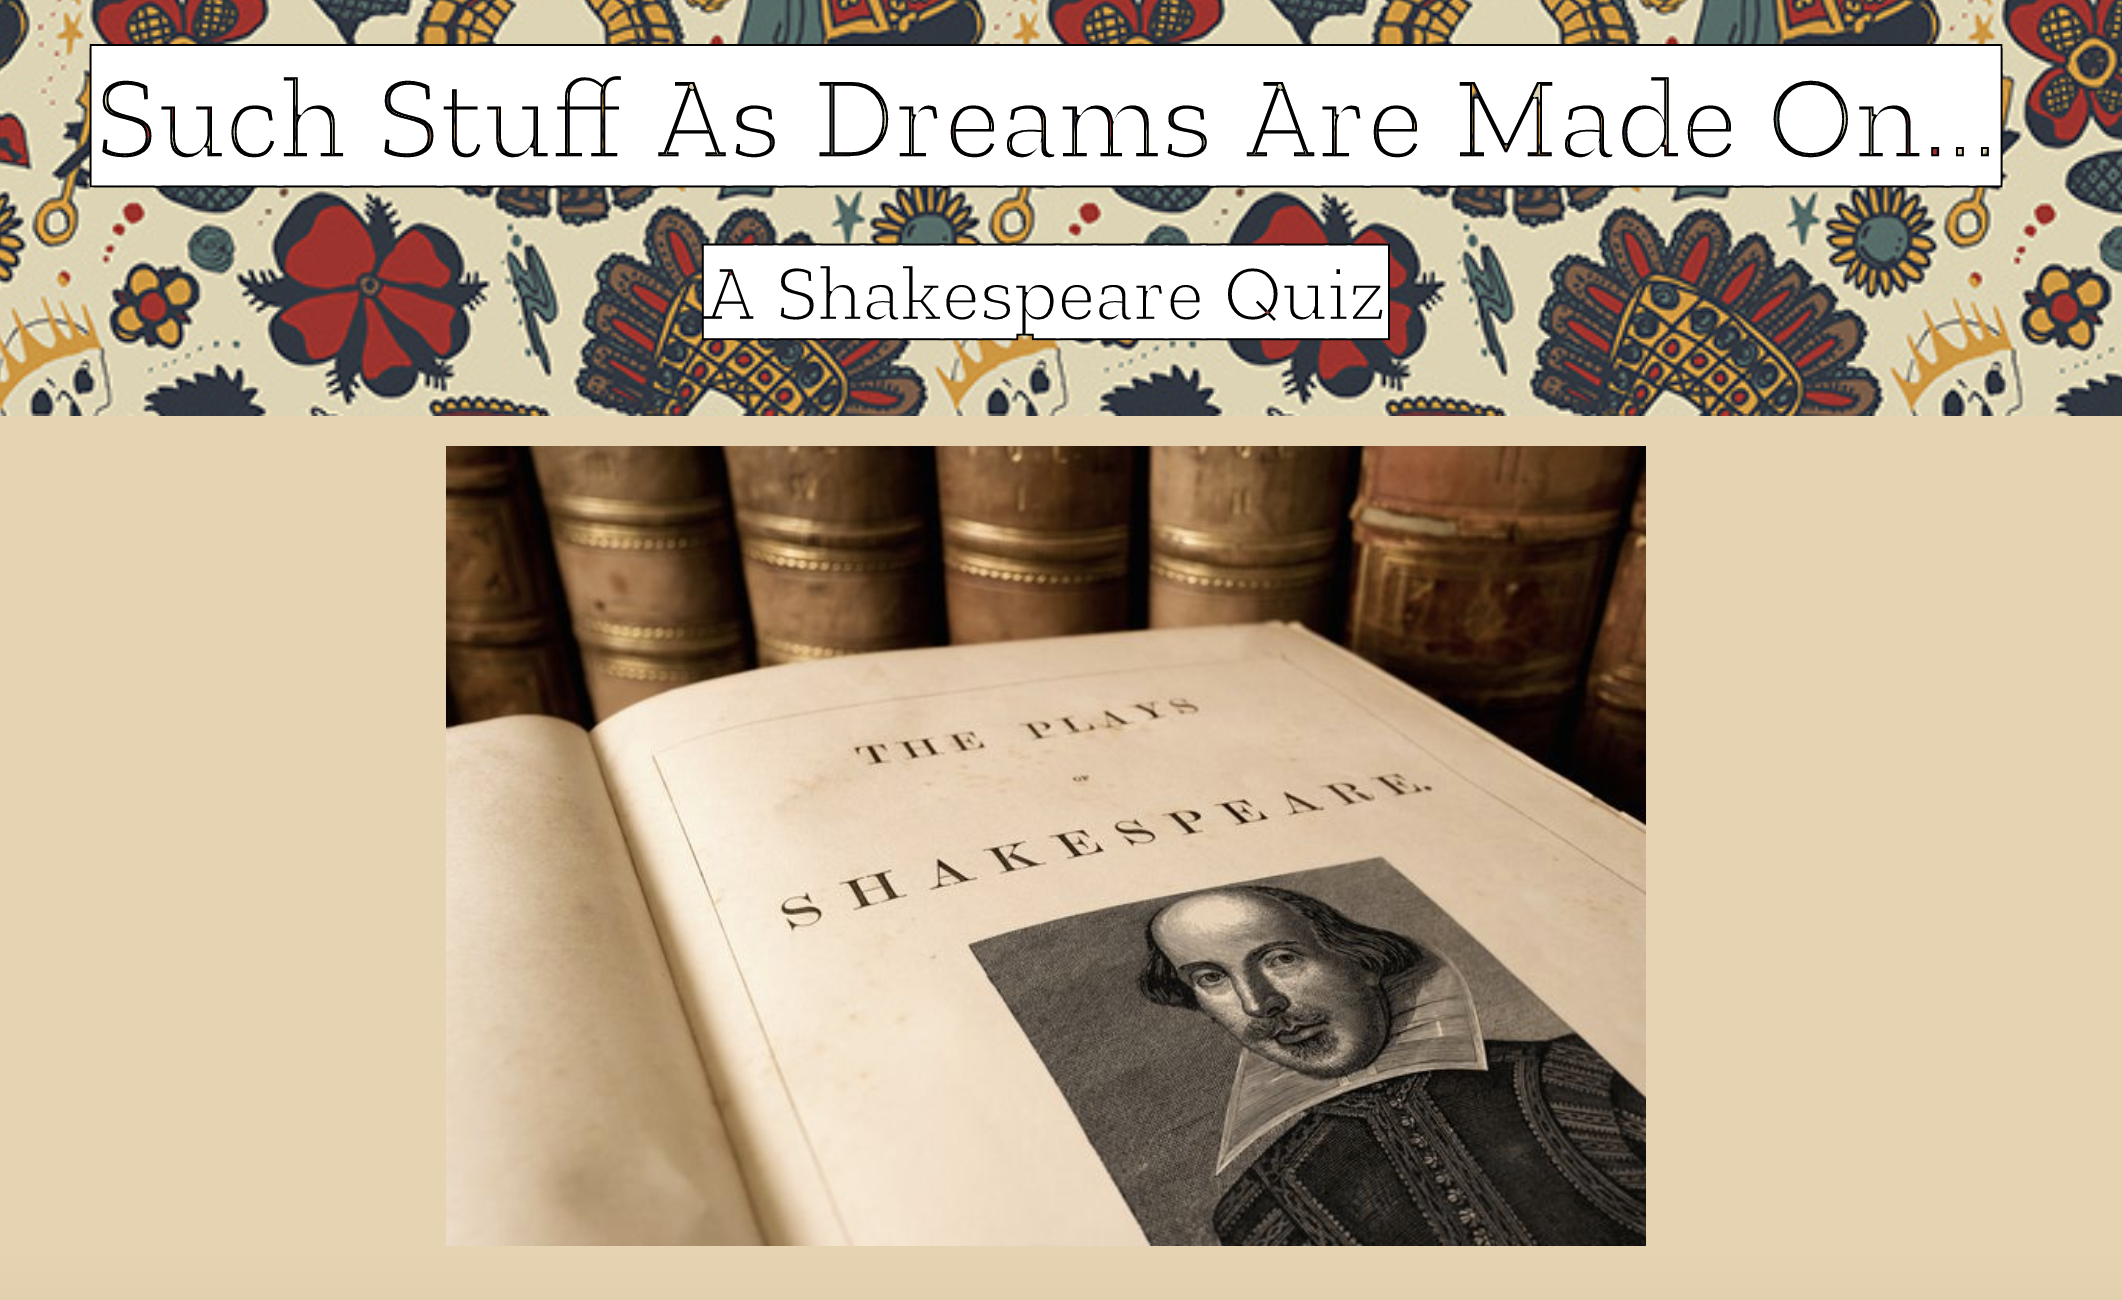
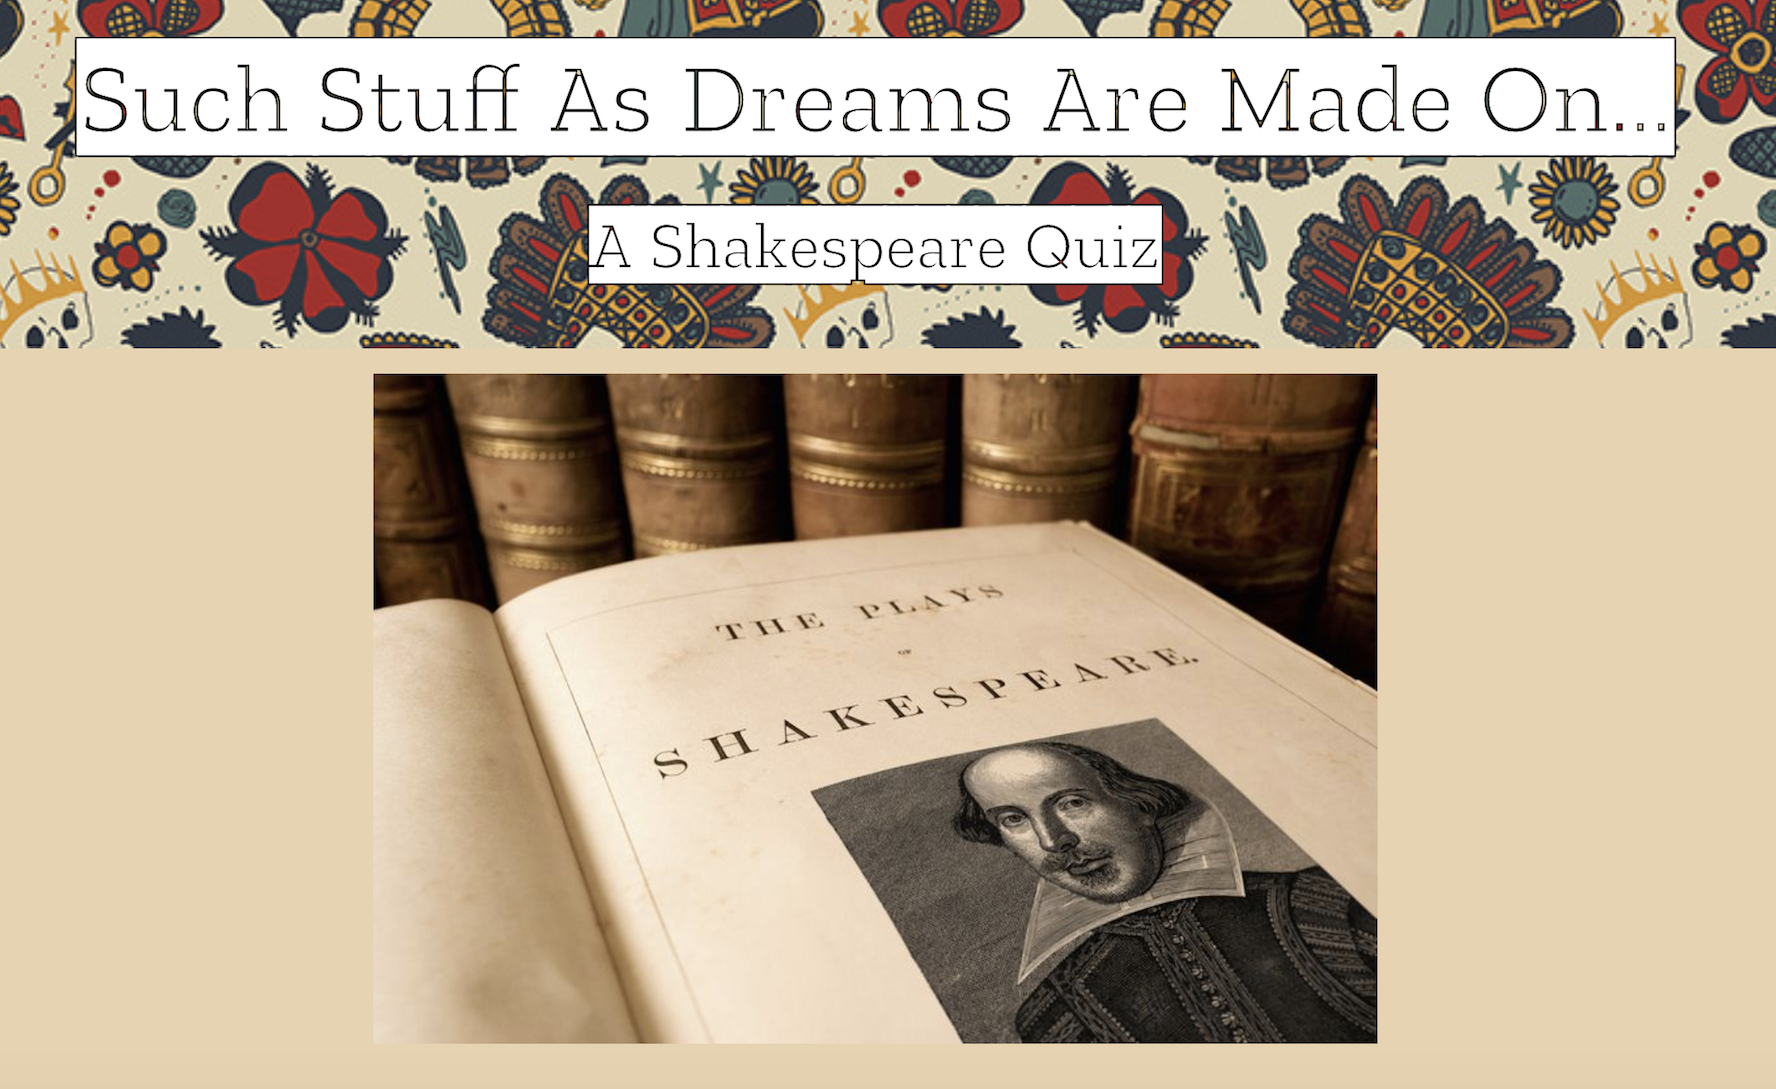
Updated #project img height

diff --git a/css/main.css b/css/main.css
@@ -345,7 +345,7 @@ header nav ul li:last-child a {
 }
 
 .portfolio-img  {
-  width: 75%;
+  max-width: 75%;
 }
 
 #projects h3, #projects h4, #projects p {
@@ -360,6 +360,7 @@ header nav ul li:last-child a {
   font-size: 19px;
   line-height: 30px;
   margin-left: -25px;
+  margin-right: 20px;
   max-width: 600px;
 }
 }
